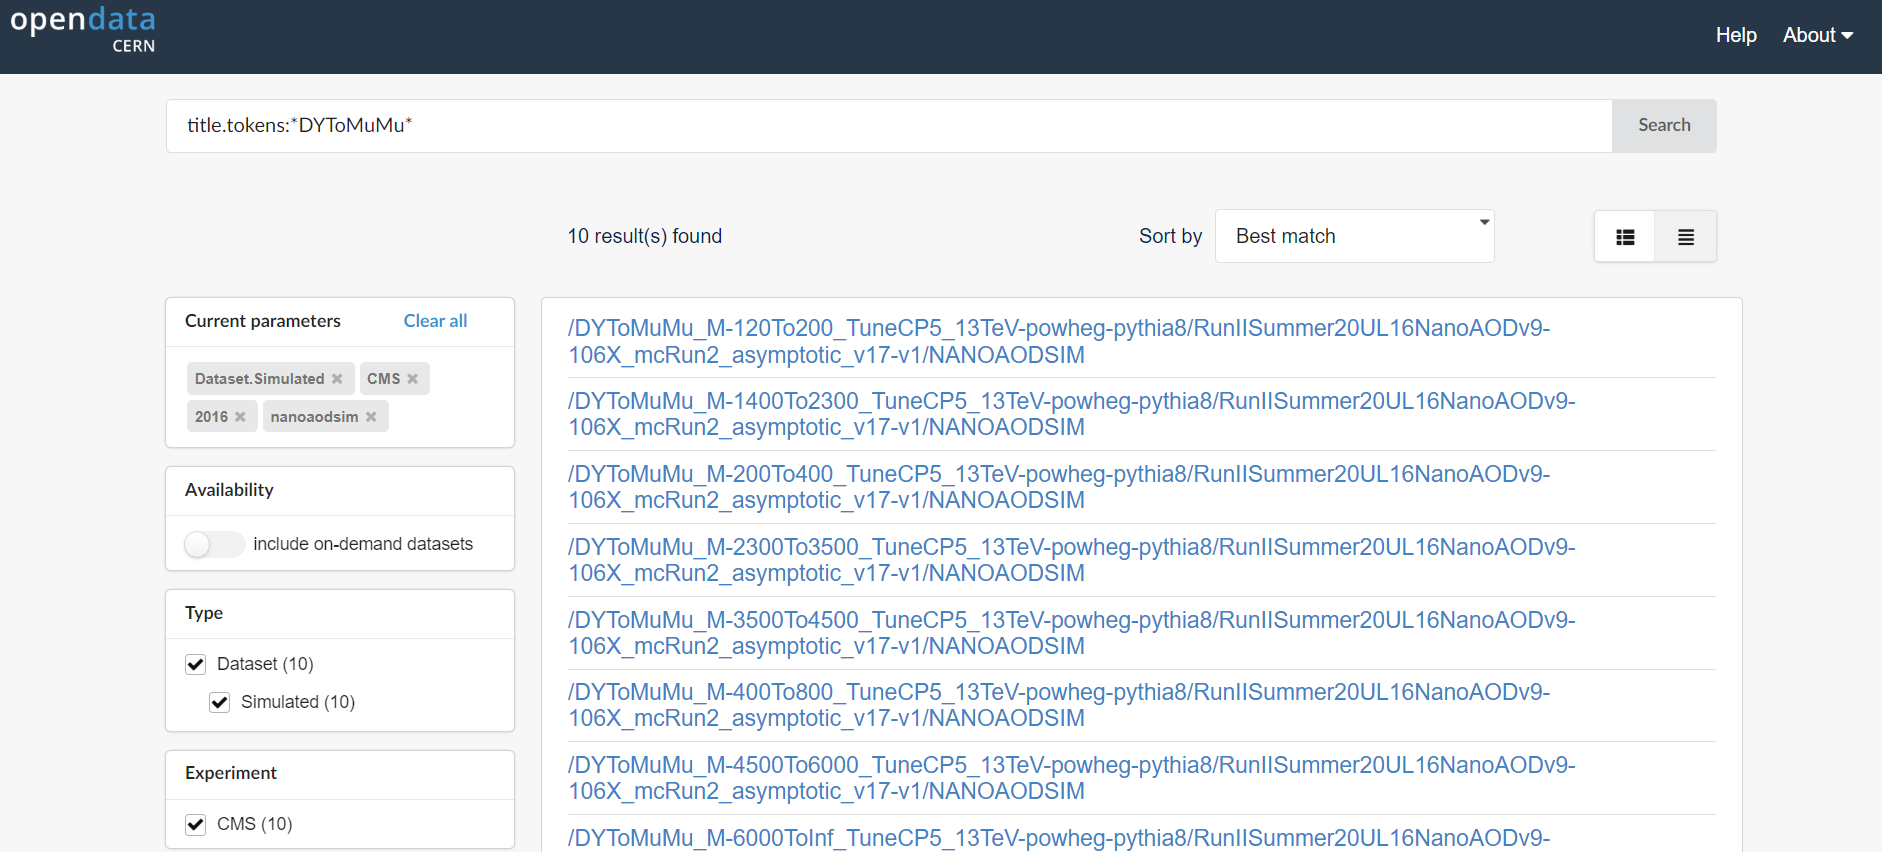
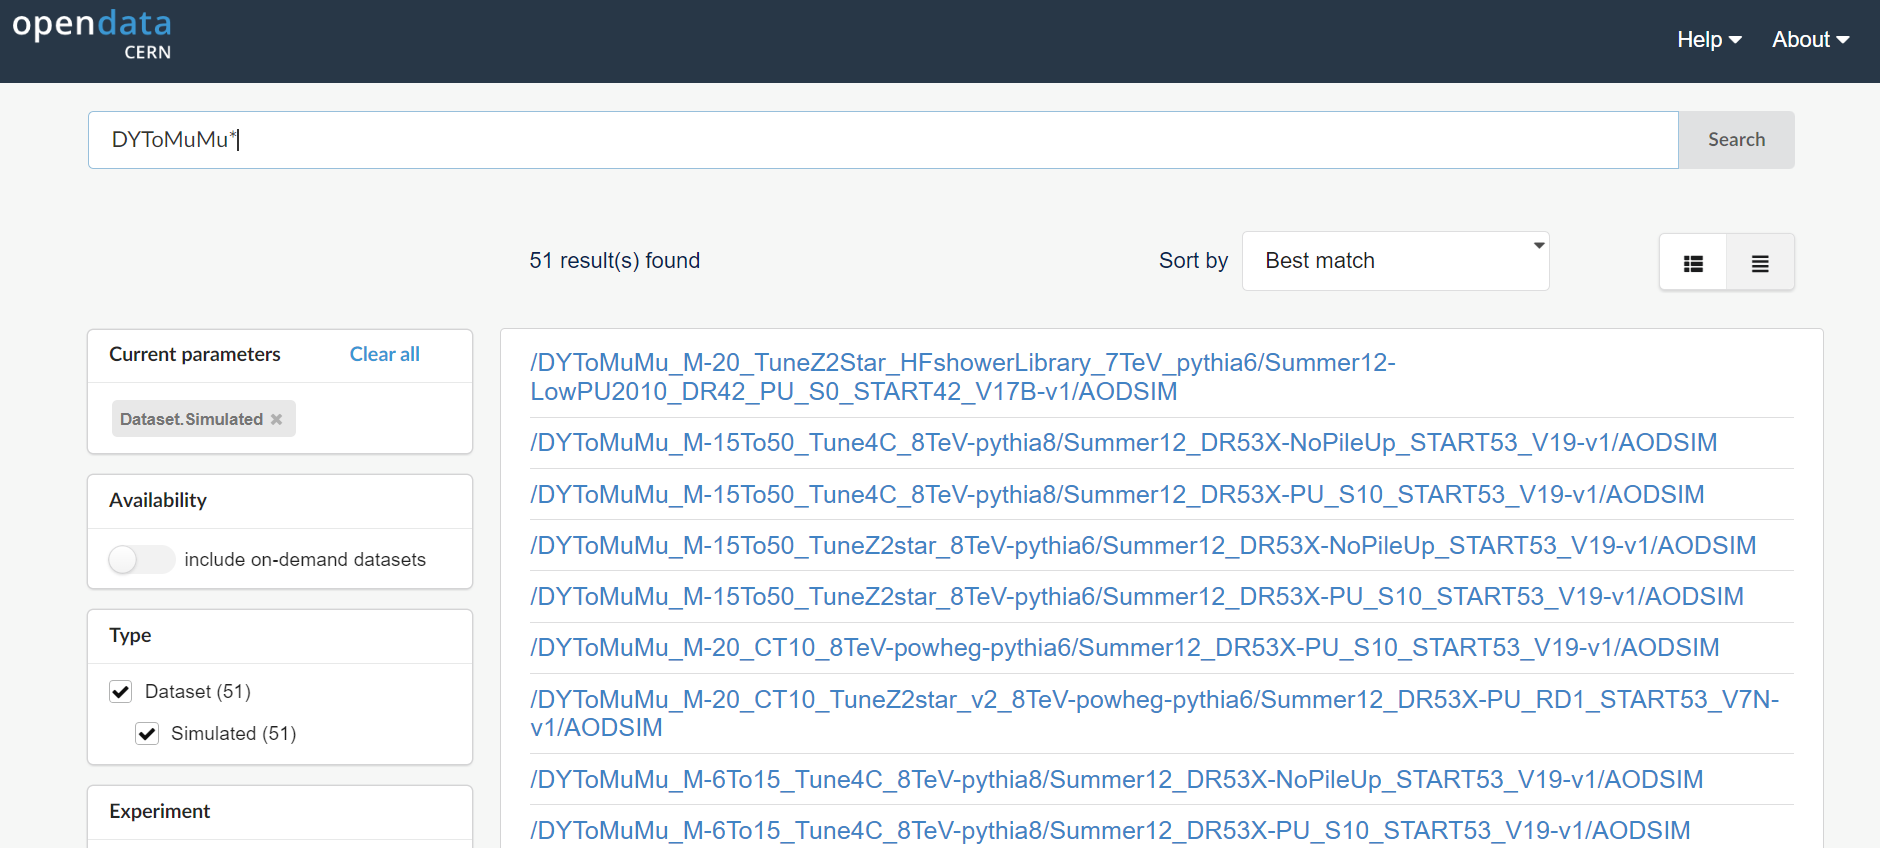
03: update search tips and figure, closes #3

diff --git a/episodes/03-what-data-is-available.md b/episodes/03-what-data-is-available.md
@@ -245,10 +245,10 @@ To fit more entries to one page, you can choose the list view from the search, a
 
 To search a string in the record title use, for example:
 
-- `title.tokens:*GluGluHToGG*`
-- `title.tokens:*DYToMuMu*`
-- `title.tokens:*sherpa*`
-- `title.tokens:*flat*`
+- `GluGluHToGG*`
+- `DYToMuMu*`
+- `*sherpa*`
+- `*flat*`
 
 ![](fig/portal_screenshot_search_cms_2016_mc_nanoaodsim_dytomumu.png)
 
